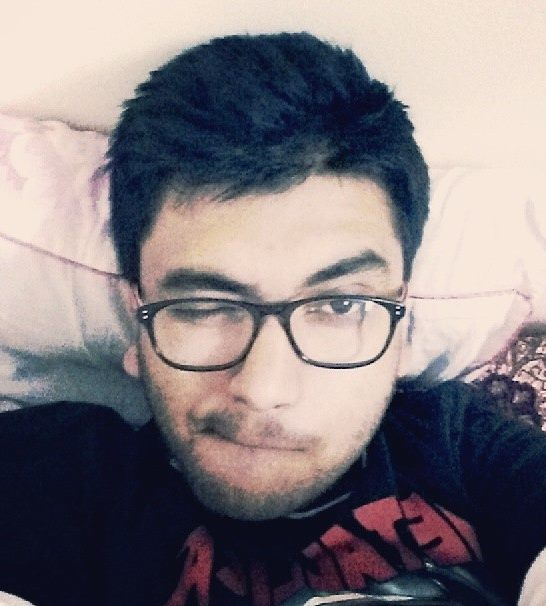
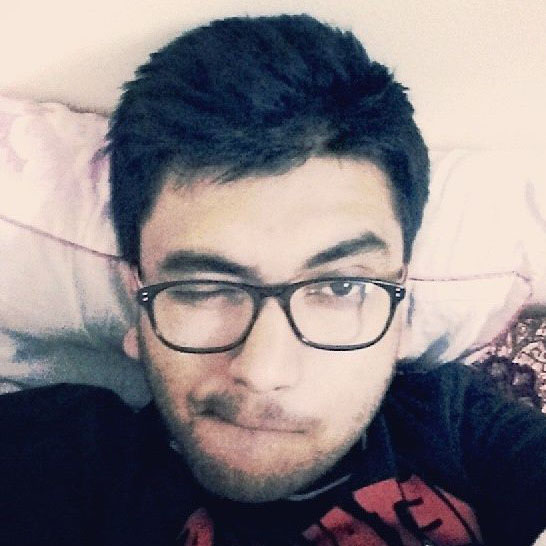
Squared off images and converted pngs to jpegs

diff --git a/index.html b/index.html
@@ -61,8 +61,8 @@
             <li><a href="#Portfolio">Portfolio</a></li>
             <!--<li class="small-logo"><a href="#header"><img src="img/small-logo.png" alt=""></a></li>-->
             <li><a href="#team">About us</a></li>
+            <li><a href="#workshop">Workshop</a></li>
             <li><a href="#contact">Contact Us</a></li>
-            <li><a href="#fbpage">Workshops</a></li>
 
         </ul>
         <a class="res-nav_click" href="#"><i class="fa-bars"></i></a>
@@ -115,12 +115,12 @@
 
 
 
-<section class="main-section client-part" id="client"><!--main-section client-part-start-->
+<section class="main-section client-part" id="testimonials"><!--main-section client-part-start-->
 	<div class="container">
 		<b class="quote-right wow fadeInDown delay-03"><i class="fa-quote-right"></i></b>
     	<div class="row">
         	<div class="col-lg-12">
-            	<p class="client-part-haead wow fadeInDown delay-05">“If you think that the internet has changed your life, think again. The IoT is about to change it all over again!”  </p>
+            	<div id="fb-root"></div><script>(function(d, s, id) {  var js, fjs = d.getElementsByTagName(s)[0];  if (d.getElementById(id)) return;  js = d.createElement(s); js.id = id;  js.src = "//connect.facebook.net/en_US/sdk.js#xfbml=1&version=v2.3";  fjs.parentNode.insertBefore(js, fjs);}(document, 'script', 'facebook-jssdk'));</script><div class="fb-post" data-href="https://www.facebook.com/labiotary/posts/1681726635449987" data-width="500"><div class="fb-xfbml-parse-ignore"><blockquote cite="https://www.facebook.com/labiotary/posts/1681726635449987">Posted by <a href="https://www.facebook.com/labiotary/">Labiotary</a> on&nbsp;<a href="https://www.facebook.com/labiotary/posts/1681726635449987">Monday, February 15, 2016</a></blockquote></div></div>
             </div>
         </div>
     	<ul class="client wow fadeIn delay-05s">
@@ -129,6 +129,7 @@
                 <span></span>
             </a></li>
         </ul>
+
     </div>
 </section><!--main-section client-part-end-->
 <!--c-logo-part-end-->
@@ -140,7 +141,7 @@
             <div class="team-leader-box">
                 <div class="team-leader wow fadeInDown delay-03s"> 
                     <div class="team-leader-shadow"><a href="#"></a></div>
-                    <img src="img/team-leader-pic0.png" alt="">
+                    <img src="img/team-leader-pic0.jpg" alt="">
                     <ul>
                         <li><a href="https://www.facebook.com/prady786" class="fa-facebook"></a></li>
                         <li><a href="https://plus.google.com/+PushpBajaj/" class="fa-google-plus"></a></li>
@@ -154,7 +155,7 @@
             <div class="team-leader-box">
                 <div class="team-leader wow fadeInDown delay-03s"> 
                     <div class="team-leader-shadow"><a href="#"></a></div>
-                    <img src="img/team-leader-pic1.png" alt="">
+                    <img src="img/team-leader-pic1.jpg" alt="">
                     <ul>
                         <li><a href="https://twitter.com/bishops1101" class="fa-twitter"></a></li>
                         <li><a href="https://www.facebook.com/pushp.bajaj" class="fa-facebook"></a></li>
@@ -171,7 +172,7 @@
                     <ul>
                         <li><a href="https://twitter.com/abhnvkmr" class="fa-twitter"></a></li>
                         <li><a href="https://www.facebook.com/abhnvkmr" class="fa-facebook"></a></li>
-                        <li><a href="#" class="fa-pinterest"></a></li>
+                        <li><a href="https://www.pinterest.com/abhnvkmr" class="fa-pinterest"></a></li>
                         <li><a href="https://plus.google.com/+AbhinavKumar1" class="fa-google-plus"></a></li>
                     </ul>
                 </div>
@@ -200,9 +201,9 @@
 
 
 
-<section class="business-talking"><!--business-talking-start-->
+<section class="business-talking" id="workshop"><!--business-talking-start-->
 	<div class="container">
-        <h2>Let’s Talk Business.</h2>
+        <div id="fb-root"></div><script>(function(d, s, id) {  var js, fjs = d.getElementsByTagName(s)[0];  if (d.getElementById(id)) return;  js = d.createElement(s); js.id = id;  js.src = "//connect.facebook.net/en_US/sdk.js#xfbml=1&version=v2.3";  fjs.parentNode.insertBefore(js, fjs);}(document, 'script', 'facebook-jssdk'));</script><div class="fb-post" data-href="https://www.facebook.com/labiotary/posts/1681726635449987" data-width="500"><div class="fb-xfbml-parse-ignore"><blockquote cite="https://www.facebook.com/labiotary/posts/1681726635449987">Posted by <a href="https://www.facebook.com/labiotary/">Labiotary</a> on&nbsp;<a href="https://www.facebook.com/labiotary/posts/1681726635449987">Monday, February 15, 2016</a></blockquote></div></div>
     </div>
 </section><!--business-talking-end-->
 <div class="container">
